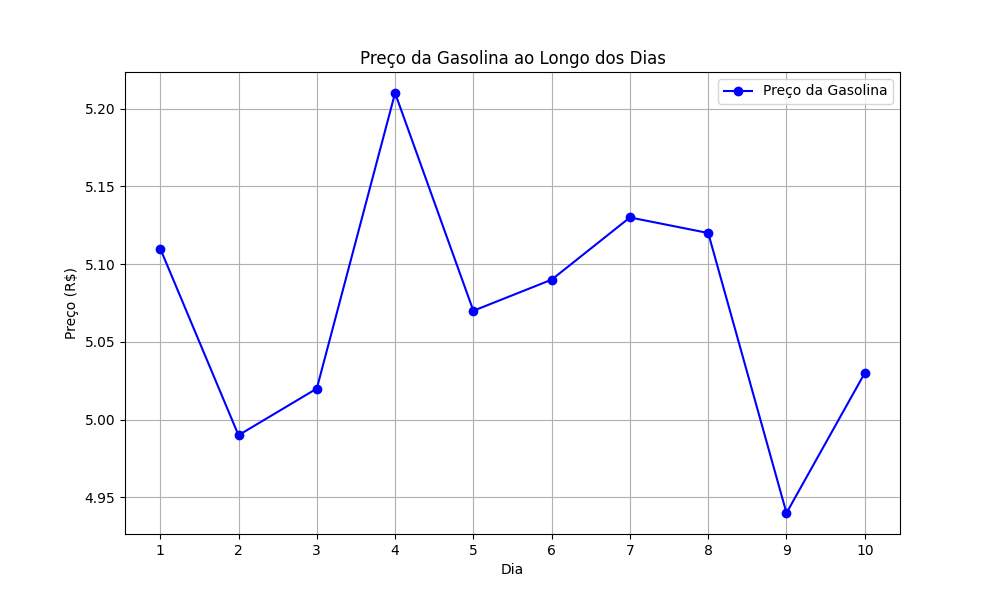
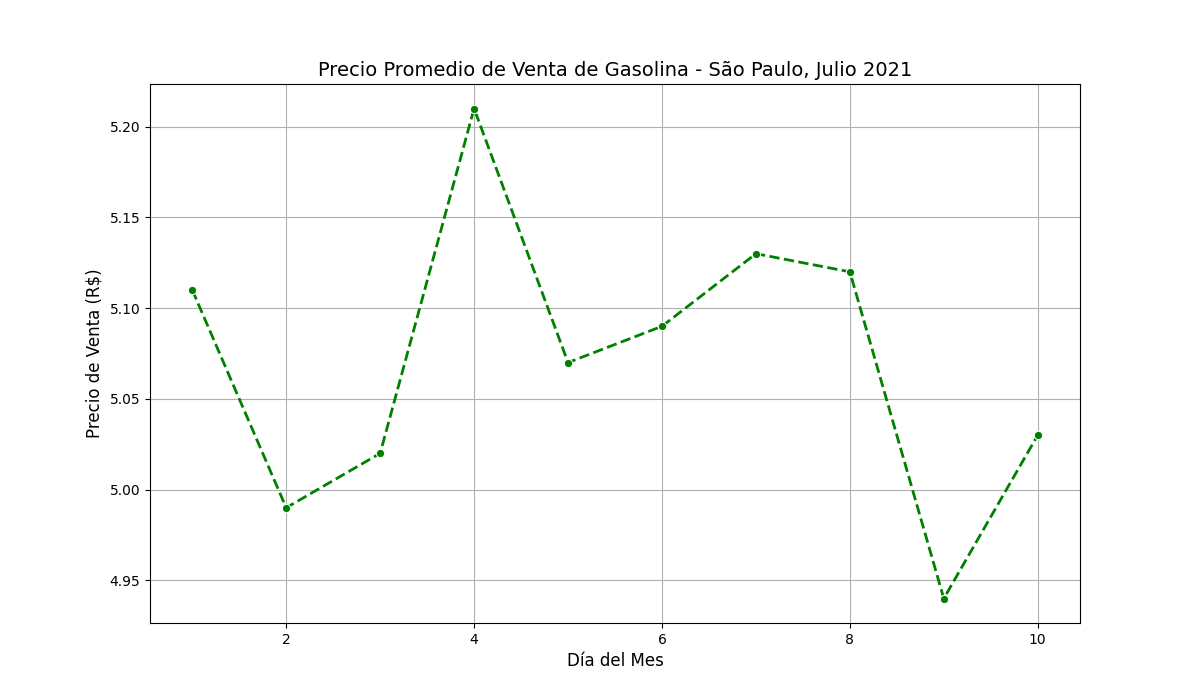
testando seguencia

diff --git a/gasolina.py b/gasolina.py
@@ -6,14 +6,15 @@ import matplotlib.pyplot as plt
 # Cargar datos desde el archivo CSV
 df_gasolina = pd.read_csv("gasolina.csv")
 
-# Crear el gráfico de líneas
-plt.figure(figsize=(10, 6))
-sns.lineplot(data=df_gasolina, x="dia", y="venda", marker="o", color="blue", linewidth=2)
+# Crear el gráfico de líneas con algunas modificaciones
+plt.figure(figsize=(12, 7))
+sns.lineplot(data=df_gasolina, x="dia", y="venda", marker="o", color="green", linewidth=2, linestyle='--')
 
 # Personalizar el gráfico
-plt.title("Precio promedio de venta de gasolina en São Paulo - Julio 2021")
-plt.xlabel("Día")
-plt.ylabel("Precio de venta (R$)")
+plt.title("Precio Promedio de Venta de Gasolina - São Paulo, Julio 2021", fontsize=14)
+plt.xlabel("Día del Mes", fontsize=12)
+plt.ylabel("Precio de Venta (R$)", fontsize=12)
+plt.grid(True)
 
 # Guardar el gráfico en un archivo PNG
 plt.savefig("gasolina.png")
